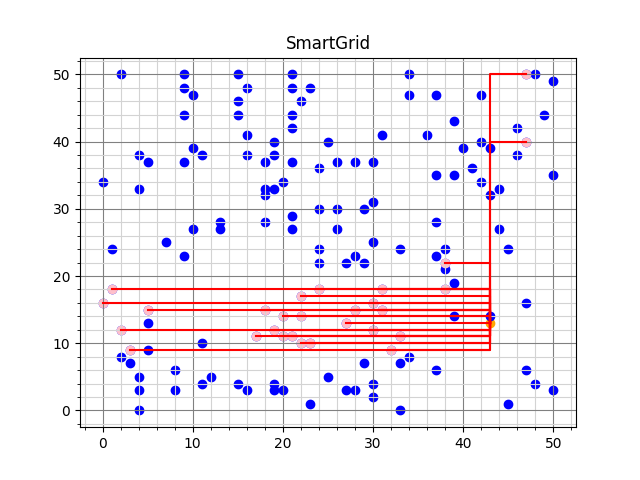
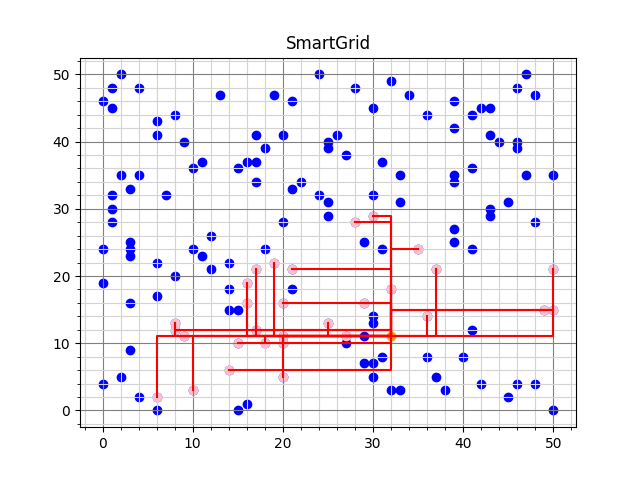
fixed vis

diff --git a/main.py b/main.py
@@ -8,7 +8,7 @@ import pickle
 import copy
 
 if __name__ == "__main__":
-    district_number = "1"
+    district_number = "3"
     greedy_version = 2
 
     battery_file = (f"data/Huizen&Batterijen/district_{district_number}/district-{district_number}_batteries.csv")
@@ -89,28 +89,30 @@ if __name__ == "__main__":
         greedy2_costs = list()
         best_cost = 70000
 
-        for i in range(100):
+
+        for i in range(1000):
             greedy2 = greedy.Greedy(empty_grid)
             greedy2.run_greedy()
             
             if greedy2.grid.is_valid():
-                if greedy2.grid.calc_cost() < best_cost:
+                if greedy2.grid.calc_cost2() < best_cost:
                     best_grid = greedy2.grid
-                    best_cost = greedy2.grid.calc_cost()
-            greedy2_costs.append(greedy2.grid.calc_cost())
+                    best_cost = greedy2.grid.calc_cost2()
+                    best_greedy2_1000_ctc = greedy2
+            greedy2_costs.append(greedy2.grid.calc_cost2())
+            print(f'iteration {i}', greedy2.grid.calc_cost2())
 
         print('Price cheapest valid Greedy:', best_cost)
         visualise_costs.visualise_costs(greedy2_costs, "greedy2")
 
-        # file_name = f"SmartGrid/data/solutions/best_greedy2.pickle"
+        file_name = f"data/solutions/best_greedy2.pickle"
 
-        # with open(file_name, 'wb') as handle:
-        #     pickle.dump(best_greedy, handle)
+        with open(file_name, 'wb') as handle:
+            pickle.dump(best_greedy2_1000_ctc, handle)
 
     # --------------------------- visualisation --------------------------
-    visualise_cables.visualise_apart(best_grid, district_number)
-    visualise_cables.visualise(best_grid, district_number)
-    # visualise_cables.visualise_house_apart(best_grid, district_number)
+    # visualise_cables.visualise_apart(best_grid, district_number)
+    # visualise_cables.visualise(best_grid, district_number)
 
         # --------------------------- greedy - each house to closest battery--------------------------
     if greedy_version == 3:
@@ -155,15 +157,15 @@ if __name__ == "__main__":
     # Simulated annealing 2 is different from simulated annealing 1 in that this one decreases the mutate_house_number linearly with 
     # each iteration, whereas in the other one the mutate_house_number is static.
 
-    print("Setting up Simulated Annealing...")
-    simanneal = simulated_annealing.Simulated_annealing(greedy1.grid, temperature=(50+50)*9, mutate_house_number = 3
-    , alpha = 0.999, cooling_scheme="exponential", cable_to_cable = True)
+    # print("Setting up Simulated Annealing...")
+    # simanneal = simulated_annealing.Simulated_annealing(greedy1.grid, temperature=(50+50)*9, mutate_house_number = 3
+    # , alpha = 0.999, cooling_scheme="exponential", cable_to_cable = True)
     
-    print("Running Simulated Annealing...")
-    simanneal.run(100, verbose=True, decreasing_mutate_house_number = False)
+    # print("Running Simulated Annealing...")
+    # simanneal.run(100, verbose=True, decreasing_mutate_house_number = False)
     
-    print(f"Value of the configuration after Simulated Annealing: "
-          f"{simanneal.grid.calc_cost2()}")
+    # print(f"Value of the configuration after Simulated Annealing: "
+    #       f"{simanneal.grid.calc_cost2()}")
 
     # simanneal_id = 35
 
@@ -195,10 +197,10 @@ if __name__ == "__main__":
 
     # --------------------------- Hill Climber (fix) ---------------------------------
 
-    # print(best_greedy.grid.calc_cost())
+    print(best_greedy2_1000_ctc.grid.calc_cost())
     
     # print("Setting up Hill Climber...")
-    climber = hill_climber.Hill_climber(simanneal.grid, fix = True, mutate_house_number=10)
+    climber = hill_climber.Hill_climber(best_greedy2_1000_ctc.grid, fix = True, mutate_house_number=10)
 
     # print("Running Hill Climber...")
     climber.run(1000, verbose=True)
@@ -206,15 +208,15 @@ if __name__ == "__main__":
     print(f"Value of the configuration after Hill Climber: "
           f"{climber.grid.calc_cost2()}")
 
-    # print("valid?")
-    # print(climber.grid.is_valid())
+    print("valid?")
+    print(climber.grid.is_valid())
 
-    # if climber.grid.is_valid():
-    #     climber_id = 5
-    #     file_name = f"SmartGrid/data/solutions/climber_{climber_id}_best_greedy.pickle"
+    if climber.grid.is_valid():
+        climber_id = 6
+        file_name = f"SmartGrid/data/solutions/climber_{climber_id}_best_greedy2_1000_c2c.pickle"
 
-    #     with open(file_name, 'wb') as handle:
-    #         pickle.dump(climber, handle)
+        with open(file_name, 'wb') as handle:
+            pickle.dump(climber, handle)
 
 
     # --------------------------- visualisation --------------------------

diff --git a/code/visualisations/visualise_cables.py b/code/visualisations/visualise_cables.py
@@ -7,10 +7,10 @@ from code.classes import grid, house, battery, cable
 def visualise(grid, district_number):
 
     # load data files
-    # battery_file = (f"data/Huizen&Batterijen/district_{district_number}/district-{district_number}_batteries.csv")
-    battery_file = (f"SmartGrid/data/Huizen&Batterijen/district_{district_number}/district-{district_number}_batteries.csv")
-    # house_file = (f"data/Huizen&Batterijen/district_{district_number}/district-{district_number}_houses.csv")
-    house_file = (f"SmartGrid/data/Huizen&Batterijen/district_{district_number}/district-{district_number}_houses.csv")
+    battery_file = (f"data/Huizen&Batterijen/district_{district_number}/district-{district_number}_batteries.csv")
+    # battery_file = (f"SmartGrid/data/Huizen&Batterijen/district_{district_number}/district-{district_number}_batteries.csv")
+    house_file = (f"data/Huizen&Batterijen/district_{district_number}/district-{district_number}_houses.csv")
+    # house_file = (f"SmartGrid/data/Huizen&Batterijen/district_{district_number}/district-{district_number}_houses.csv")
 
     dfhouses = pd.read_csv(house_file)
     dfhouses.plot(kind='scatter', x='x', y='y')
@@ -49,8 +49,8 @@ def visualise(grid, district_number):
     # plt.legend()
     plt.show()
     grid_name = "sim_anneal"
-    plt.savefig(f"SmartGrid/docs/cable_visualisation_{grid_name}.png")
-    # plt.savefig("docs/cable_visualisation.png")
+    # plt.savefig(f"SmartGrid/docs/cable_visualisation_{grid_name}.png")
+    plt.savefig("docs/cable_visualisation.png")
 
 def visualise_apart(grid, district_number):
     """
@@ -98,55 +98,4 @@ def visualise_apart(grid, district_number):
         plt.show()
         plt.savefig(f"docs/cable_visualisation_battery{battery.id}.png")
 
-
-def visualise_house_apart(grid, district_number):
-    """
-    Visualise the connections of each house connected to battery 0 in separate grids
-    """
-    battery = grid.batteries[0]
-    for house in battery.houses.values():
-        if house.id < 30:
-
-            district_number = district_number
-            # Load house files
-            house_file = (f"data/Huizen&Batterijen/district_{district_number}/district-{district_number}_houses.csv")
-            dfhouses = pd.read_csv(house_file)
-            dfhouses.plot(kind='scatter', x='x', y='y')
-
-            # Clear the figure
-            plt.clf()
-
-            # Plot gridlines
-            plt.title(f'SmartGrid house {house.id}')
-            plt.grid(which='minor', color='lightgrey')
-            plt.grid(which='major', color='grey')
-            plt.minorticks_on()
-
-            # Plot each house and battery in the grid
-            plt.scatter(battery.x, battery.y, color='orange', label = "Batteries")
-            plt.scatter(dfhouses.x, dfhouses.y, color='blue', label = "Houses")
-
-            # Give the connections of each battery a different colour
-            if battery.id == 0:
-                gridcolor = "blue"
-            elif battery.id == 1: 
-                gridcolor = "red"
-            elif battery.id == 2: 
-                gridcolor = "orange"
-            elif battery.id == 3: 
-                gridcolor = "black"
-            elif battery.id == 4: 
-                gridcolor = "gray"
-
-            # Plot cables 
-
-            plt.scatter(house.x, house.y, color="pink")
-            plt.plot(house.cable.x, house.cable.y, color=gridcolor, linestyle="-")
-
-            # plt.legend()
-            plt.show()
-            plt.savefig(f"docs/cable_visualisation_house{house.id}.png")
-            print(house.id, 'coordinates', house.x, house.y)
-            print(battery.id, 'coordinates', battery.x, battery.y)
-            print(house.id, 'cable', house.cable.x, house.cable.y)
     
